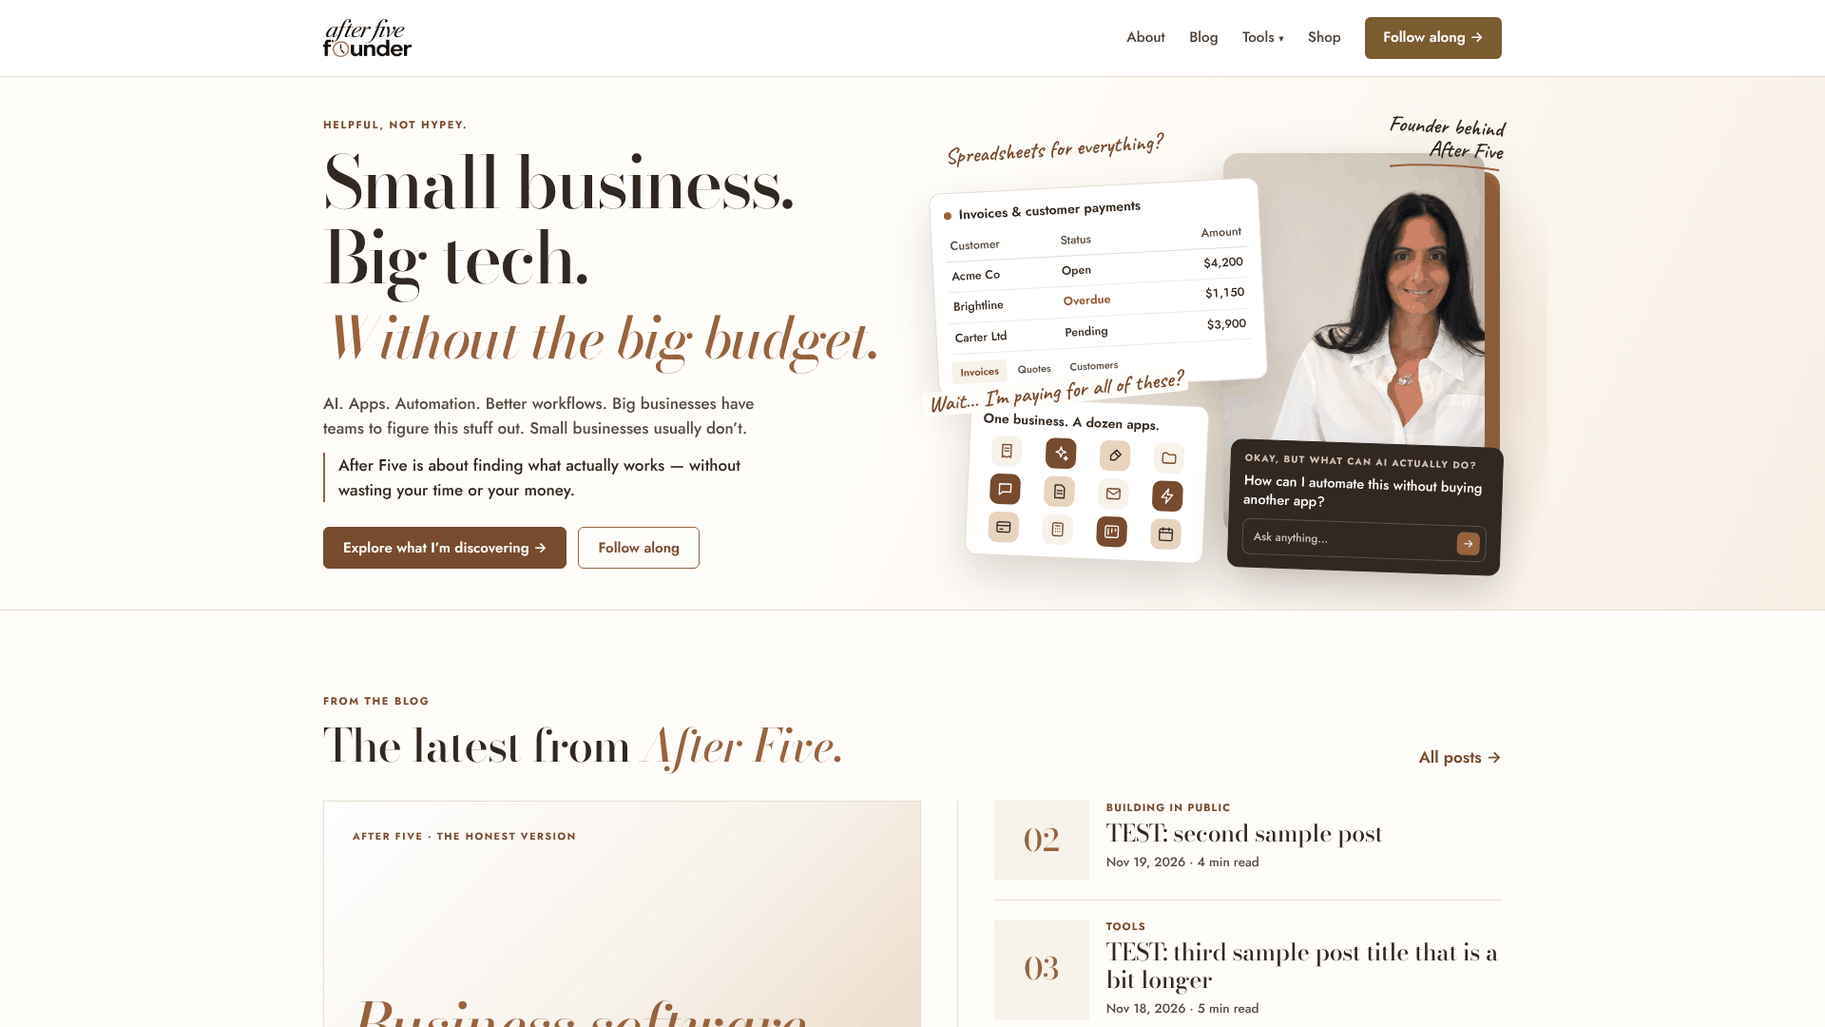
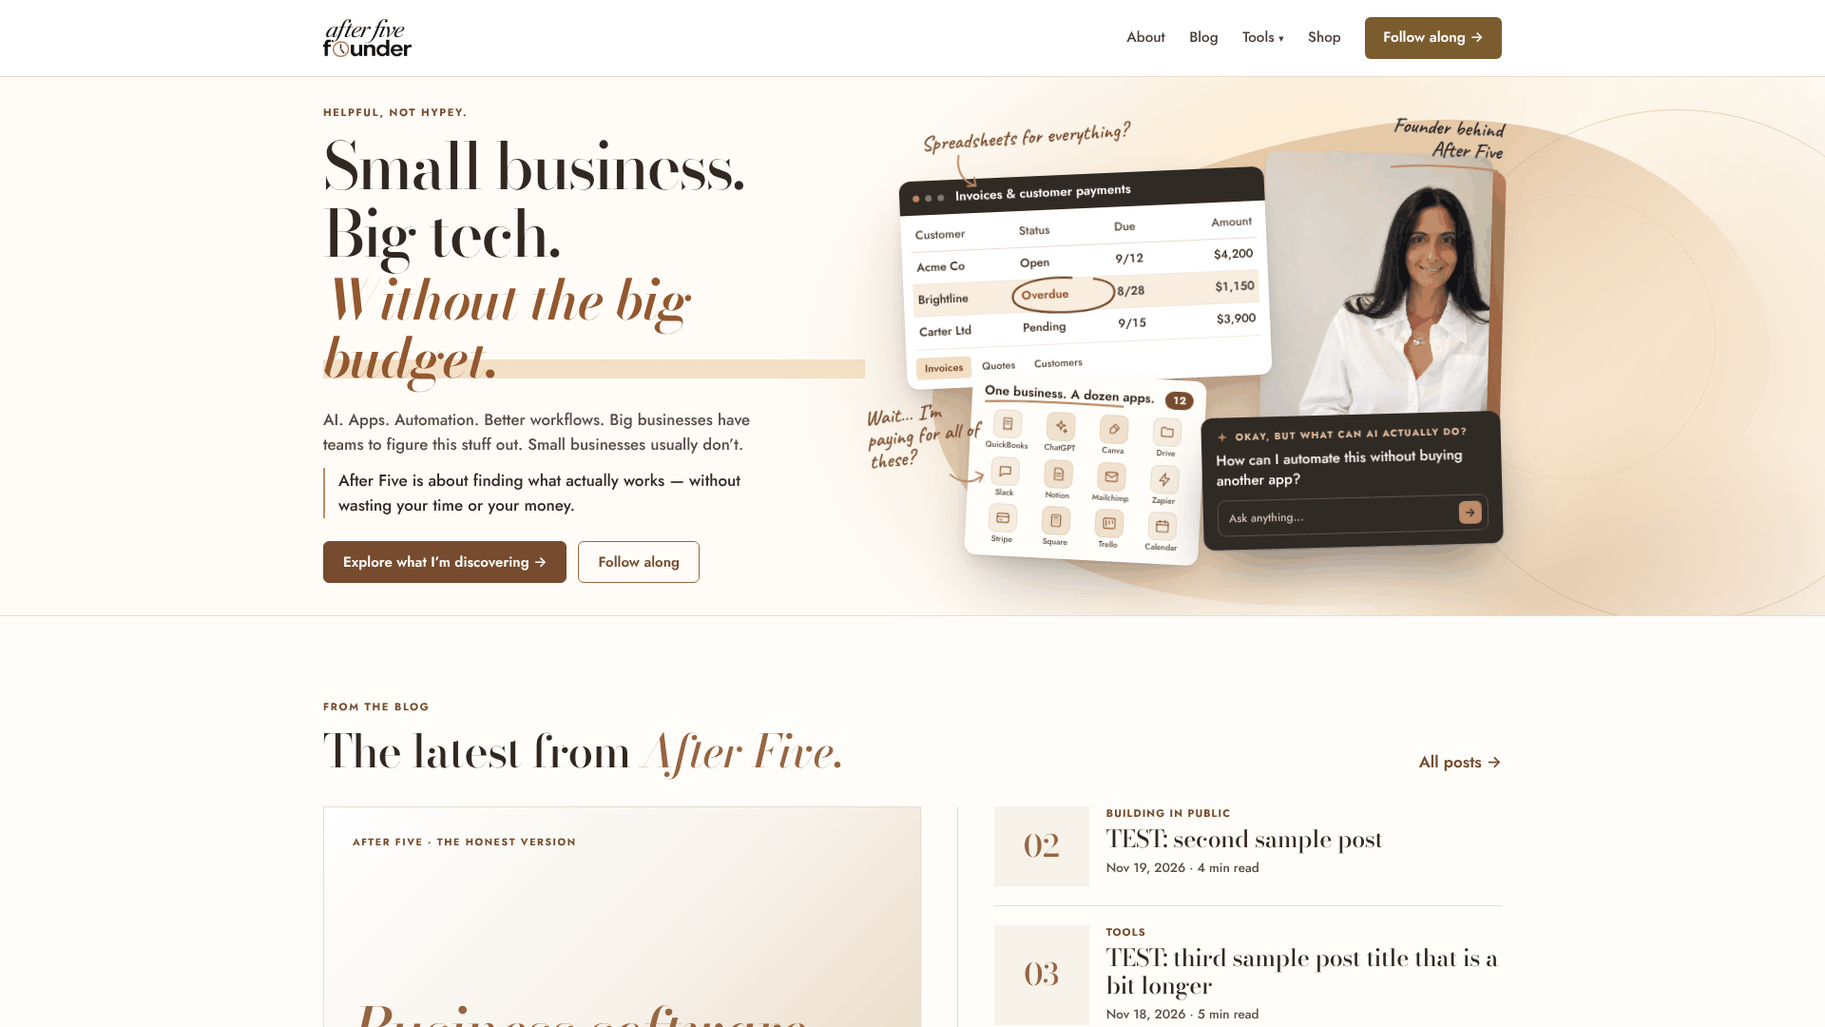
Hero art direction: golden-hour light, card hierarchy, annotations and motion
Ivory copy side with champagne, warm stone and bronze light layered behind
the illustrations. The invoice card gets an espresso header and is the
largest; the app card uses warm neutral icons and a count; the AI card is
espresso with bronze accents. Handwritten notes now point at what they
describe, the overdue invoice is circled, and 'A dozen apps' is underlined.
On load the overdue row lights up, the notes draw in, the app count pops
and the AI question rises last. Reduced motion shows the finished state.
Headline is slightly smaller with a stronger bronze italic line, and the
hero is shorter so the next section starts on the first screen.

Claude-Session: https://claude.ai/code/session_01EWUL5sKaSTExd4HKL3qh3L

diff --git a/public/index.html b/public/index.html
@@ -68,55 +68,150 @@ section{position:relative}
 .js .rv{opacity:0;transform:translateY(12px);transition:opacity .6s ease,transform .6s ease}
 .js .rv.in{opacity:1;transform:none}
 
-/* ---------- HERO ---------- */
-.hero{background:linear-gradient(115deg,var(--paper) 48%,#f7efe4 100%);overflow:hidden}
-.hero-grid{display:grid;grid-template-columns:minmax(0,1fr) minmax(0,1fr);gap:44px;align-items:center;min-height:530px;padding-block:40px}
-.hero h1{font:500 var(--h1)/1.04 var(--serif);letter-spacing:-.035em;color:var(--ink)}
-.hero h1 .accent{display:inline-block;margin-top:.06em;font-style:italic;font-size:.8em;letter-spacing:-.03em;color:var(--bronze)}
-.hero .sub{max-width:480px;margin-top:22px;font-size:1.06rem;color:var(--muted)}
-.hero .mark{max-width:480px;margin-top:12px;padding-left:14px;border-left:2px solid var(--bronze);font-weight:500;color:var(--ink)}
-.hero .cta{display:flex;flex-wrap:wrap;gap:12px;margin-top:26px}
+/* ---------- HERO ----------
+   A founder's working notebook: bright ivory copy side, golden-hour light behind the
+   illustrations, layered product cards and handwritten notes that point at them. */
+.hero{--ivory:#FFFCF8;--champagne:#F3DEC2;--stone2:#E9D1B5;--rich-bronze:#BB8C5B;--espresso:#302A25;
+  position:relative;overflow:hidden;isolation:isolate;background:var(--ivory)}
+/* golden-hour backdrop, concentrated behind the right-hand illustrations */
+.hero-bg{position:absolute;inset:0;z-index:-1;pointer-events:none}
+.hero-bg i{position:absolute;display:block}
+.hero-bg .glow{top:-25%;right:-14%;width:72%;height:160%;background:radial-gradient(closest-side,#F3DEC2,rgba(243,222,194,.75) 45%,rgba(255,252,248,0) 100%)}
+.hero-bg .blob{top:10%;right:3%;width:46%;height:88%;border-radius:58% 42% 46% 54%/48% 56% 44% 52%;background:linear-gradient(150deg,#E9D1B5 0%,rgba(222,186,145,.75) 38%,rgba(243,222,194,.35) 70%,rgba(243,222,194,0));transform:rotate(-8deg)}
+.hero-bg .sun{top:-18%;right:18%;width:420px;height:420px;border-radius:50%;background:radial-gradient(circle,rgba(255,240,214,.95),rgba(255,236,205,0) 70%)}
+.hero-bg .warm{bottom:-30%;right:-6%;width:46%;height:70%;border-radius:50%;background:radial-gradient(closest-side,rgba(187,140,91,.32),rgba(187,140,91,0))}
+.hero-bg .beam{top:-30%;right:10%;width:22%;height:170%;background:linear-gradient(90deg,rgba(255,248,236,0),rgba(255,248,236,.85) 50%,rgba(255,248,236,0));transform:rotate(30deg);filter:blur(8px)}
+.hero-bg .ring{top:6%;right:-6%;width:540px;height:540px;border:1px solid rgba(187,140,91,.35);border-radius:50%}
+.hero-bg .ring2{top:22%;right:6%;width:300px;height:300px;border:1px dashed rgba(187,140,91,.25);border-radius:50%}
+.hero-grid{display:grid;grid-template-columns:minmax(0,.95fr) minmax(0,1.05fr);gap:40px;align-items:center;padding-block:30px 34px}
+.hero h1{font:500 clamp(40px,4.6vw,68px)/1.04 var(--serif);letter-spacing:-.035em;color:var(--ink)}
+.hero h1 .accent{display:inline-block;margin-top:.08em;font-style:italic;font-weight:600;font-size:.86em;letter-spacing:-.025em;color:#93582f;background:linear-gradient(transparent 76%,rgba(243,222,194,.95) 76%,rgba(243,222,194,.95) 93%,transparent 93%)}
+.hero .sub{max-width:470px;margin-top:20px;font-size:1.05rem;color:var(--muted)}
+.hero .mark{max-width:470px;margin-top:12px;padding-left:14px;border-left:2px solid var(--rich-bronze);font-weight:500;color:var(--ink)}
+.hero .cta{display:flex;flex-wrap:wrap;gap:12px;margin-top:24px}
 .hero-copy>*{animation:heroUp .6s ease both}
 .hero-copy>:nth-child(2){animation-delay:.06s}.hero-copy>:nth-child(3){animation-delay:.12s}.hero-copy>:nth-child(4){animation-delay:.18s}.hero-copy>:nth-child(5){animation-delay:.24s}
 @keyframes heroUp{from{opacity:0;transform:translateY(10px)}to{opacity:1;transform:none}}
 
-/* hero illustration: the invoice spreadsheet, the app pile and the AI question */
-.stage{position:relative;height:480px;isolation:isolate}
-.stage::before{content:"";position:absolute;inset:4% -8% -6% 18%;background:radial-gradient(ellipse at 60% 50%,rgba(214,176,138,.45),transparent 68%);z-index:-2}
-/* Emma: the real founder photo is the anchor of the composition */
-.portrait{position:absolute;top:40px;right:3%;width:46%;height:400px;margin:0;z-index:1}
-.portrait::before{content:"";position:absolute;inset:20px -16px -16px 20px;border-radius:16px;background:var(--bronze);z-index:-1}
-.portrait img{width:100%;height:100%;object-fit:cover;object-position:64% 16%;border-radius:16px;box-shadow:0 26px 56px rgba(48,40,33,.24)}
-.panel{position:absolute;background:#fff;border:1px solid var(--line);border-radius:var(--radius);box-shadow:0 20px 44px rgba(48,40,33,.16)}
-.panel-title{display:flex;align-items:center;gap:8px;margin-bottom:8px;font:600 14px/1.25 var(--sans);color:var(--ink)}
-.panel-title i{width:8px;height:8px;border-radius:50%;background:var(--bronze)}
-.p-sheet{top:74px;left:0;width:58%;padding:14px 14px 10px;transform:rotate(-3deg);z-index:3}
-.sheet{width:100%;border-collapse:collapse;font-size:12.5px;font-variant-numeric:tabular-nums}
+/* stage */
+.stage{position:relative;height:470px}
+.portrait{position:absolute;top:34px;right:2%;width:38%;height:330px;margin:0;z-index:1;transform:rotate(1.5deg)}
+.portrait::before{content:"";position:absolute;inset:16px -14px -14px 16px;border-radius:14px;background:linear-gradient(160deg,var(--rich-bronze),#9a6a3e);z-index:-1}
+.portrait img{width:100%;height:100%;object-fit:cover;object-position:64% 14%;border-radius:14px;box-shadow:0 2px 4px rgba(48,40,33,.08),0 28px 50px -12px rgba(48,40,33,.35)}
+.panel{position:absolute;background:#fff;border-radius:12px;box-shadow:0 1px 2px rgba(48,40,33,.08),0 10px 18px -6px rgba(48,40,33,.14),0 34px 60px -18px rgba(48,40,33,.32)}
+/* 1. invoices: the largest card, espresso header */
+.p-sheet{top:56px;left:0;width:61%;z-index:3;transform:rotate(-2.5deg);overflow:hidden}
+.p-sheet .bar{display:flex;align-items:center;gap:6px;padding:10px 14px;background:var(--espresso);color:#fff;font:600 13.5px/1.2 var(--sans)}
+.p-sheet .bar i{width:7px;height:7px;border-radius:50%;background:rgba(255,255,255,.35)}
+.p-sheet .bar i:first-child{background:var(--rich-bronze)}
+.p-sheet .bar b{margin-left:6px;font-weight:600}
+.sheet{width:calc(100% - 20px);margin:6px 10px 4px;border-collapse:collapse;font-size:12.5px;font-variant-numeric:tabular-nums}
 .sheet th{text-align:left;font-weight:500;color:var(--muted);padding:6px 5px;border-bottom:1px solid var(--line)}
-.sheet td{padding:6px 5px;border-bottom:1px solid #f0e9df;color:var(--ink)}
+.sheet td{padding:7px 5px;border-bottom:1px solid #f0e9df;color:var(--ink)}
 .sheet .n{text-align:right}
+.sheet tr.od td{transition:background-color .5s ease}
+.sheet .st{position:relative;white-space:nowrap}
 .sheet .over{color:#a3412b;font-weight:600}
-.sheet-tabs{display:flex;gap:2px;margin-top:8px;font-size:11px;color:var(--muted)}
+.sheet .circ{position:absolute;left:-9px;top:-5px;width:calc(100% + 16px);height:calc(100% + 10px);overflow:visible;color:var(--bronze-dark)}
+.sheet-tabs{display:flex;gap:2px;padding:4px 10px 10px;font-size:11px;color:var(--muted)}
 .sheet-tabs span{padding:3px 9px;border-radius:4px}
-.sheet-tabs .on{background:var(--cream);color:var(--bronze-dark);font-weight:600}
-.sheet .due{display:none}
-.p-apps{bottom:14px;left:6%;width:42%;padding:13px;transform:rotate(2.5deg);z-index:4}
-.apps-grid{display:grid;grid-template-columns:repeat(4,minmax(0,1fr));gap:8px 4px}
+.sheet-tabs .on{background:var(--champagne);color:var(--bronze-dark);font-weight:600}
+/* 2. subscriptions: medium card, warm neutral icons */
+.p-apps{bottom:8px;left:11%;width:39%;padding:12px 13px 13px;z-index:4;transform:rotate(3deg);background:#fffdf9}
+.apps-head{display:flex;align-items:baseline;justify-content:space-between;gap:8px;margin-bottom:9px}
+.apps-head b{position:relative;font:600 13.5px/1.2 var(--sans);color:var(--ink)}
+.apps-head .uline{position:absolute;left:-2px;bottom:-7px;width:calc(100% + 4px);height:9px;overflow:visible;color:var(--rich-bronze)}
+.apps-head .count{flex:none;padding:3px 8px;border-radius:999px;background:var(--champagne);color:var(--bronze-dark);font:700 11px/1.2 var(--sans);font-variant-numeric:tabular-nums;transition:background-color .4s,color .4s,transform .4s}
+.apps-grid{display:grid;grid-template-columns:repeat(4,minmax(0,1fr));gap:7px 4px}
 .app{display:flex;flex-direction:column;align-items:center;gap:3px;min-width:0}
-.app svg{width:32px;height:32px;padding:7px;border-radius:9px;background:var(--cream);color:var(--bronze-dark)}
-.app:nth-child(3n+2) svg{background:var(--bronze-dark);color:#fff}
-.app:nth-child(3n) svg{background:#e8d3bd;color:var(--ink)}
-.app small{display:none;font-size:9px;line-height:1.1;color:var(--muted);text-align:center;white-space:nowrap;overflow:hidden;text-overflow:ellipsis;max-width:100%}
-.p-ai{bottom:0;right:0;width:48%;padding:13px 14px;transform:rotate(2deg);z-index:5;background:var(--ink);border-color:var(--ink);color:#fff}
-.p-ai small{display:block;margin-bottom:6px;font:700 10px/1.25 var(--sans);letter-spacing:.12em;text-transform:uppercase;color:#e3c7a6}
-.p-ai p{font-size:14.5px;line-height:1.4;color:#fff}
-.p-ai .ask{display:flex;align-items:center;justify-content:space-between;gap:8px;margin-top:10px;padding:6px 6px 6px 11px;border:1px solid rgba(255,255,255,.2);border-radius:8px;font-size:12px;color:#cfc2b4}
-.p-ai .ask b{display:grid;place-items:center;width:24px;height:24px;border-radius:6px;background:var(--bronze);color:#fff;font-weight:400}
-.note{position:absolute;z-index:6;font:600 23px/1.05 var(--hand);color:var(--bronze-dark);pointer-events:none}
-.note-1{top:0;right:0;transform:rotate(3deg);text-align:right;color:var(--ink)}
-.note-1 svg{display:block;width:120px;height:10px;margin:2px 0 0 auto;color:var(--bronze)}
-.note-2{top:24px;left:2%;transform:rotate(-4deg)}
-.note-3{top:278px;left:-2%;transform:rotate(-6deg);padding:1px 6px;background:var(--paper);border-radius:4px;z-index:6}
+.app svg{width:30px;height:30px;padding:7px;border-radius:8px;background:#f6ede1;color:#8a6240;box-shadow:inset 0 0 0 1px rgba(187,140,91,.18)}
+.app:nth-child(4n+2) svg,.app:nth-child(4n+3) svg{background:#efe1cf}
+.app small{font-size:8.5px;line-height:1.1;color:var(--muted);text-align:center;white-space:nowrap;overflow:hidden;text-overflow:ellipsis;max-width:100%}
+/* 3. AI question: espresso, light type, bronze accents */
+.p-ai{bottom:22px;right:0;width:50%;padding:14px 15px;z-index:5;transform:rotate(-1.5deg);background:var(--espresso);color:#fff;box-shadow:0 1px 2px rgba(48,40,33,.2),0 34px 60px -16px rgba(48,40,33,.55)}
+.p-ai small{display:flex;align-items:center;gap:7px;margin-bottom:7px;font:700 10px/1.25 var(--sans);letter-spacing:.12em;text-transform:uppercase;color:#e9c79c}
+.p-ai small svg{flex:none;width:14px;height:14px;color:var(--rich-bronze)}
+.p-ai p{font-size:15px;line-height:1.4;color:#fff}
+.p-ai .ask{display:flex;align-items:center;justify-content:space-between;gap:8px;margin-top:10px;padding:6px 6px 6px 11px;border:1px solid rgba(233,209,181,.25);border-radius:8px;font-size:12px;color:#cdbfae}
+.p-ai .ask b{display:grid;place-items:center;width:24px;height:24px;border-radius:6px;background:var(--rich-bronze);color:var(--espresso);font-weight:700}
+/* handwritten notes with arrows, circles and underlines */
+.note{position:absolute;z-index:6;font:600 22px/1.05 var(--hand);color:var(--bronze-dark);pointer-events:none}
+.note svg{position:absolute;overflow:visible;color:var(--rich-bronze)}
+.note-sheet{top:6px;left:3%;transform:rotate(-4deg)}
+.note-sheet svg{left:30px;top:22px;width:40px;height:42px}
+.note-founder{top:-4px;right:0;text-align:right;transform:rotate(3deg);color:var(--ink)}
+.note-founder svg{position:static;display:block;width:118px;height:10px;margin:3px 0 0 auto}
+.note-apps{top:296px;left:-6%;max-width:118px;transform:rotate(-6deg)}
+.note-apps svg{left:84px;top:58px;width:38px;height:40px;transform:rotate(-58deg)}
+/* hand-drawn strokes: drawn in by the sequence below */
+.draw path{stroke-dasharray:1;stroke-dashoffset:0}
+
+/* sequence: overdue invoice, its note, the app count, then the AI question */
+@media(prefers-reduced-motion:no-preference){
+  .js .stage .panel,.js .stage .portrait{animation:cardIn .7s cubic-bezier(.2,.7,.2,1) both}
+  .js .stage .portrait{animation-delay:.05s}
+  .js .stage .p-sheet{animation-delay:.15s}
+  .js .stage .p-apps{animation-delay:.3s}
+  .js .stage .p-ai{animation:aiIn .7s cubic-bezier(.2,.7,.2,1) 2.5s both}
+  .js .stage .sheet tr.od td{animation:odGlow 1.6s ease 1s both}
+  .js .stage .draw path{stroke-dashoffset:1;animation:drawIn .7s ease forwards}
+  .js .stage .circ path{animation-delay:1.1s}
+  .js .stage .note-sheet{animation:noteIn .5s ease .9s both}
+  .js .stage .note-sheet path{animation-delay:1.25s}
+  .js .stage .note-apps{animation:noteIn .5s ease 1.7s both}
+  .js .stage .note-apps path{animation-delay:1.9s}
+  .js .stage .uline path{animation-delay:2s}
+  .js .stage .apps-head .count{animation:countPop .8s ease 2.05s both}
+  .js .stage .note-founder{animation:noteIn .5s ease .5s both}
+  .js .stage .note-founder path{animation-delay:.7s}
+}
+@keyframes cardIn{from{opacity:0;translate:0 16px}to{opacity:1;translate:0 0}}
+@keyframes aiIn{from{opacity:0;translate:0 22px}to{opacity:1;translate:0 0}}
+@keyframes noteIn{from{opacity:0}to{opacity:1}}
+@keyframes drawIn{to{stroke-dashoffset:0}}
+@keyframes odGlow{0%{background-color:transparent}35%{background-color:rgba(243,222,194,.95)}100%{background-color:rgba(243,222,194,.55)}}
+@keyframes countPop{0%{transform:scale(1)}40%{transform:scale(1.18);background:var(--rich-bronze);color:#fff}100%{transform:scale(1);background:var(--bronze-dark);color:#fff}}
+.sheet tr.od td{background-color:rgba(243,222,194,.55)}
+.apps-head .count{background:var(--bronze-dark);color:#fff}
+
+@media(min-width:901px) and (max-width:1180px){
+  .hero-grid{grid-template-columns:minmax(0,1fr) minmax(0,1fr);gap:28px}
+  .stage{height:450px}
+  .portrait{width:42%;height:300px}
+  .p-sheet{width:70%}
+  .p-apps{width:50%;left:6%}
+  .app small{display:none}
+  .p-ai{width:56%}
+  .note-apps{display:none}
+  .apps-head b{font-size:12.5px}
+}
+@media(max-width:900px){
+  .hero-grid{grid-template-columns:1fr;gap:20px;padding-block:32px 36px}
+  .stage{width:100%;max-width:580px;margin-inline:auto}
+  .hero-bg .glow{top:30%;right:-30%;width:120%;height:90%}
+  .hero-bg .blob{top:58%;right:-4%;width:86%;height:42%;opacity:.6}
+  .hero-bg .beam,.hero-bg .ring2,.hero-bg .sun{display:none}
+  .hero-bg .ring{top:62%;right:-40%}
+}
+@media(max-width:640px){
+  .hero .cta .btn{flex:1 1 auto}
+  .stage{height:410px}
+  .portrait{top:36px;right:0;width:46%;height:270px}
+  .portrait::before{inset:12px -9px -9px 12px}
+  .p-sheet{top:64px;width:72%}
+  .p-sheet .bar{padding:8px 10px;font-size:12px}
+  .sheet{font-size:11px;width:calc(100% - 12px);margin:4px 6px}
+  .sheet th,.sheet td{padding:5px 3px}
+  .sheet-tabs,.sheet .due{display:none}
+  .p-apps,.note-apps{display:none}
+  .p-ai{left:5%;right:auto;bottom:6px;width:86%;padding:12px 13px}
+  .p-ai p{font-size:14px}
+  .p-ai .ask{display:none}
+  .note{font-size:19px}
+  .note-sheet{top:12px;left:0}
+  .note-sheet svg{left:22px;top:20px;width:32px;height:36px}
+  .note-founder{top:-2px}
+}
 
 /* ---------- LATEST ---------- */
 .lt-grid{display:grid;grid-template-columns:minmax(0,1.25fr) minmax(0,1fr);gap:38px;align-items:start}
@@ -270,16 +365,7 @@ section{position:relative}
   .tk-intro{grid-column:1/-1;max-width:640px}
   .shopt-list{grid-template-columns:repeat(3,minmax(0,1fr))}
 }
-@media(min-width:901px) and (max-width:1180px){
-  .stage{height:460px}
-  .p-sheet{width:66%}
-  .p-apps{width:52%;left:0}
-  .p-ai{width:54%}
-  .note-3{top:262px;font-size:20px}
-}
 @media(max-width:900px){
-  .hero-grid{grid-template-columns:1fr;gap:24px;min-height:0;padding-block:40px}
-  .stage{width:100%;max-width:560px;margin-inline:auto}
   .lt-grid,.bp-grid,.hats-grid{grid-template-columns:1fr}
   .lt-feat{padding-right:0;border-right:0}
   .founder-grid{grid-template-columns:220px minmax(0,1fr)}
@@ -293,21 +379,6 @@ section{position:relative}
 @media(max-width:640px){
   body{font-size:16px}
   .sec-head{flex-direction:column;align-items:flex-start;gap:10px}
-  .hero .cta .btn{flex:1 1 auto}
-  .stage{height:400px}
-  .portrait{top:34px;right:0;width:50%;height:300px}
-  .portrait::before{inset:14px -10px -10px 14px}
-  .p-sheet{top:70px;left:0;width:68%;padding:10px 10px 6px}
-  .sheet{font-size:11px}.sheet th,.sheet td{padding:5px 3px}
-  .sheet-tabs{display:none}
-  .p-apps{display:none}
-  .p-ai{left:6%;right:auto;width:84%;padding:11px 12px}
-  .p-ai p{font-size:13.5px}
-  .p-ai .ask{display:none}
-  .note{font-size:19px}
-  .note-1{top:0}
-  .note-2{top:16px;left:0}
-  .note-3{display:none}
   .founder-grid{grid-template-columns:1fr}
   .hats-fig{max-width:240px}
   .founder-fig{position:relative;top:0;max-width:220px}
@@ -349,6 +420,7 @@ section{position:relative}
 <main id="main">
 <!-- HERO -->
 <section class="hero" id="top">
+  <div class="hero-bg" aria-hidden="true"><i class="glow"></i><i class="sun"></i><i class="warm"></i><i class="beam"></i><i class="blob"></i><i class="ring"></i><i class="ring2"></i></div>
   <div class="wrap hero-grid">
     <div class="hero-copy">
       <span class="eyebrow">Helpful, not hypey.</span>
@@ -362,20 +434,20 @@ section{position:relative}
     </div>
     <div class="stage">
       <figure class="portrait"><img src="/assets/emma-hero.jpg" alt="Emma, founder of After Five" width="900" height="1001" fetchpriority="high"></figure>
-      <div class="note note-2" aria-hidden="true">Spreadsheets for everything?</div>
-      <div class="note note-1" aria-hidden="true">Founder behind<br>After Five<svg viewBox="0 0 150 12" fill="none" stroke="currentColor" stroke-width="2.6" stroke-linecap="round"><path d="M4 8 C 44 2 104 2 146 6"/></svg></div>
+      <div class="note note-founder" aria-hidden="true">Founder behind<br>After Five<svg class="draw" viewBox="0 0 150 12" fill="none" stroke="currentColor" stroke-width="2.6" stroke-linecap="round"><path pathLength="1" d="M4 8 C 44 2 104 2 146 6"/></svg></div>
       <div class="panel p-sheet" aria-hidden="true">
-        <div class="panel-title"><i></i>Invoices &amp; customer payments</div>
+        <div class="bar"><i></i><i></i><i></i><b>Invoices &amp; customer payments</b></div>
         <table class="sheet">
           <tr><th>Customer</th><th>Status</th><th class="due">Due</th><th class="n">Amount</th></tr>
           <tr><td>Acme Co</td><td>Open</td><td class="due">9/12</td><td class="n">$4,200</td></tr>
-          <tr><td>Brightline</td><td class="over">Overdue</td><td class="due">8/28</td><td class="n">$1,150</td></tr>
+          <tr class="od"><td>Brightline</td><td class="st"><span class="over">Overdue</span><svg class="circ draw" viewBox="0 0 100 40" preserveAspectRatio="none" fill="none" stroke="currentColor" stroke-width="2.2" stroke-linecap="round" vector-effect="non-scaling-stroke"><path pathLength="1" vector-effect="non-scaling-stroke" d="M58 4 C 30 1 4 8 4 21 C 4 34 34 38 60 37 C 86 36 97 28 96 18 C 95 8 76 3 50 5"/></svg></td><td class="due">8/28</td><td class="n">$1,150</td></tr>
           <tr><td>Carter Ltd</td><td>Pending</td><td class="due">9/15</td><td class="n">$3,900</td></tr>
         </table>
         <div class="sheet-tabs"><span class="on">Invoices</span><span>Quotes</span><span>Customers</span></div>
       </div>
+      <div class="note note-sheet" aria-hidden="true">Spreadsheets for everything?<svg class="draw" viewBox="0 0 44 54" fill="none" stroke="currentColor" stroke-width="2.4" stroke-linecap="round" stroke-linejoin="round"><path pathLength="1" d="M7 5 C 2 24 10 41 27 47"/><path pathLength="1" d="M27 47 L 16 47 M27 47 L 26 36"/></svg></div>
       <div class="panel p-apps" aria-hidden="true">
-        <div class="panel-title">One business. A dozen apps.</div>
+        <div class="apps-head"><b>One business. A dozen apps.<svg class="uline draw" viewBox="0 0 150 10" preserveAspectRatio="none" fill="none" stroke="currentColor" stroke-width="2.4" stroke-linecap="round"><path pathLength="1" vector-effect="non-scaling-stroke" d="M3 6 C 40 2 100 3 147 5"/></svg></b><span class="count">12</span></div>
         <div class="apps-grid">
           <div class="app"><svg viewBox="0 0 24 24" fill="none" stroke="currentColor" stroke-width="1.8" stroke-linecap="round" stroke-linejoin="round"><path d="M6 3h12v18l-3-2-3 2-3-2-3 2z"/><path d="M9 8h6M9 12h6"/></svg><small>QuickBooks</small></div>
           <div class="app"><svg viewBox="0 0 24 24" fill="none" stroke="currentColor" stroke-width="1.8" stroke-linecap="round" stroke-linejoin="round"><path d="M12 3l1.8 5.2L19 10l-5.2 1.8L12 17l-1.8-5.2L5 10l5.2-1.8z"/><path d="M19 16l.7 2 2 .7-2 .7-.7 2-.7-2-2-.7 2-.7z"/></svg><small>ChatGPT</small></div>
@@ -391,9 +463,9 @@ section{position:relative}
           <div class="app"><svg viewBox="0 0 24 24" fill="none" stroke="currentColor" stroke-width="1.8" stroke-linecap="round" stroke-linejoin="round"><rect x="3" y="5" width="18" height="16" rx="2"/><path d="M3 10h18M8 3v4M16 3v4"/></svg><small>Calendar</small></div>
         </div>
       </div>
-      <div class="note note-3" aria-hidden="true">Wait… I’m paying for all of these?</div>
+      <div class="note note-apps" aria-hidden="true">Wait… I’m paying for all of these?<svg class="draw" viewBox="0 0 44 54" fill="none" stroke="currentColor" stroke-width="2.4" stroke-linecap="round" stroke-linejoin="round"><path pathLength="1" d="M7 5 C 2 24 10 41 27 47"/><path pathLength="1" d="M27 47 L 16 47 M27 47 L 26 36"/></svg></div>
       <div class="panel p-ai" aria-hidden="true">
-        <small>Okay, but what can AI actually do?</small>
+        <small><svg viewBox="0 0 24 24" fill="currentColor"><path d="M12 2l2.2 6.6L21 11l-6.8 2.4L12 20l-2.2-6.6L3 11l6.8-2.4z"/></svg>Okay, but what can AI actually do?</small>
         <p>How can I automate this without buying another app?</p>
         <div class="ask"><span>Ask anything…</span><b>&rarr;</b></div>
       </div>
